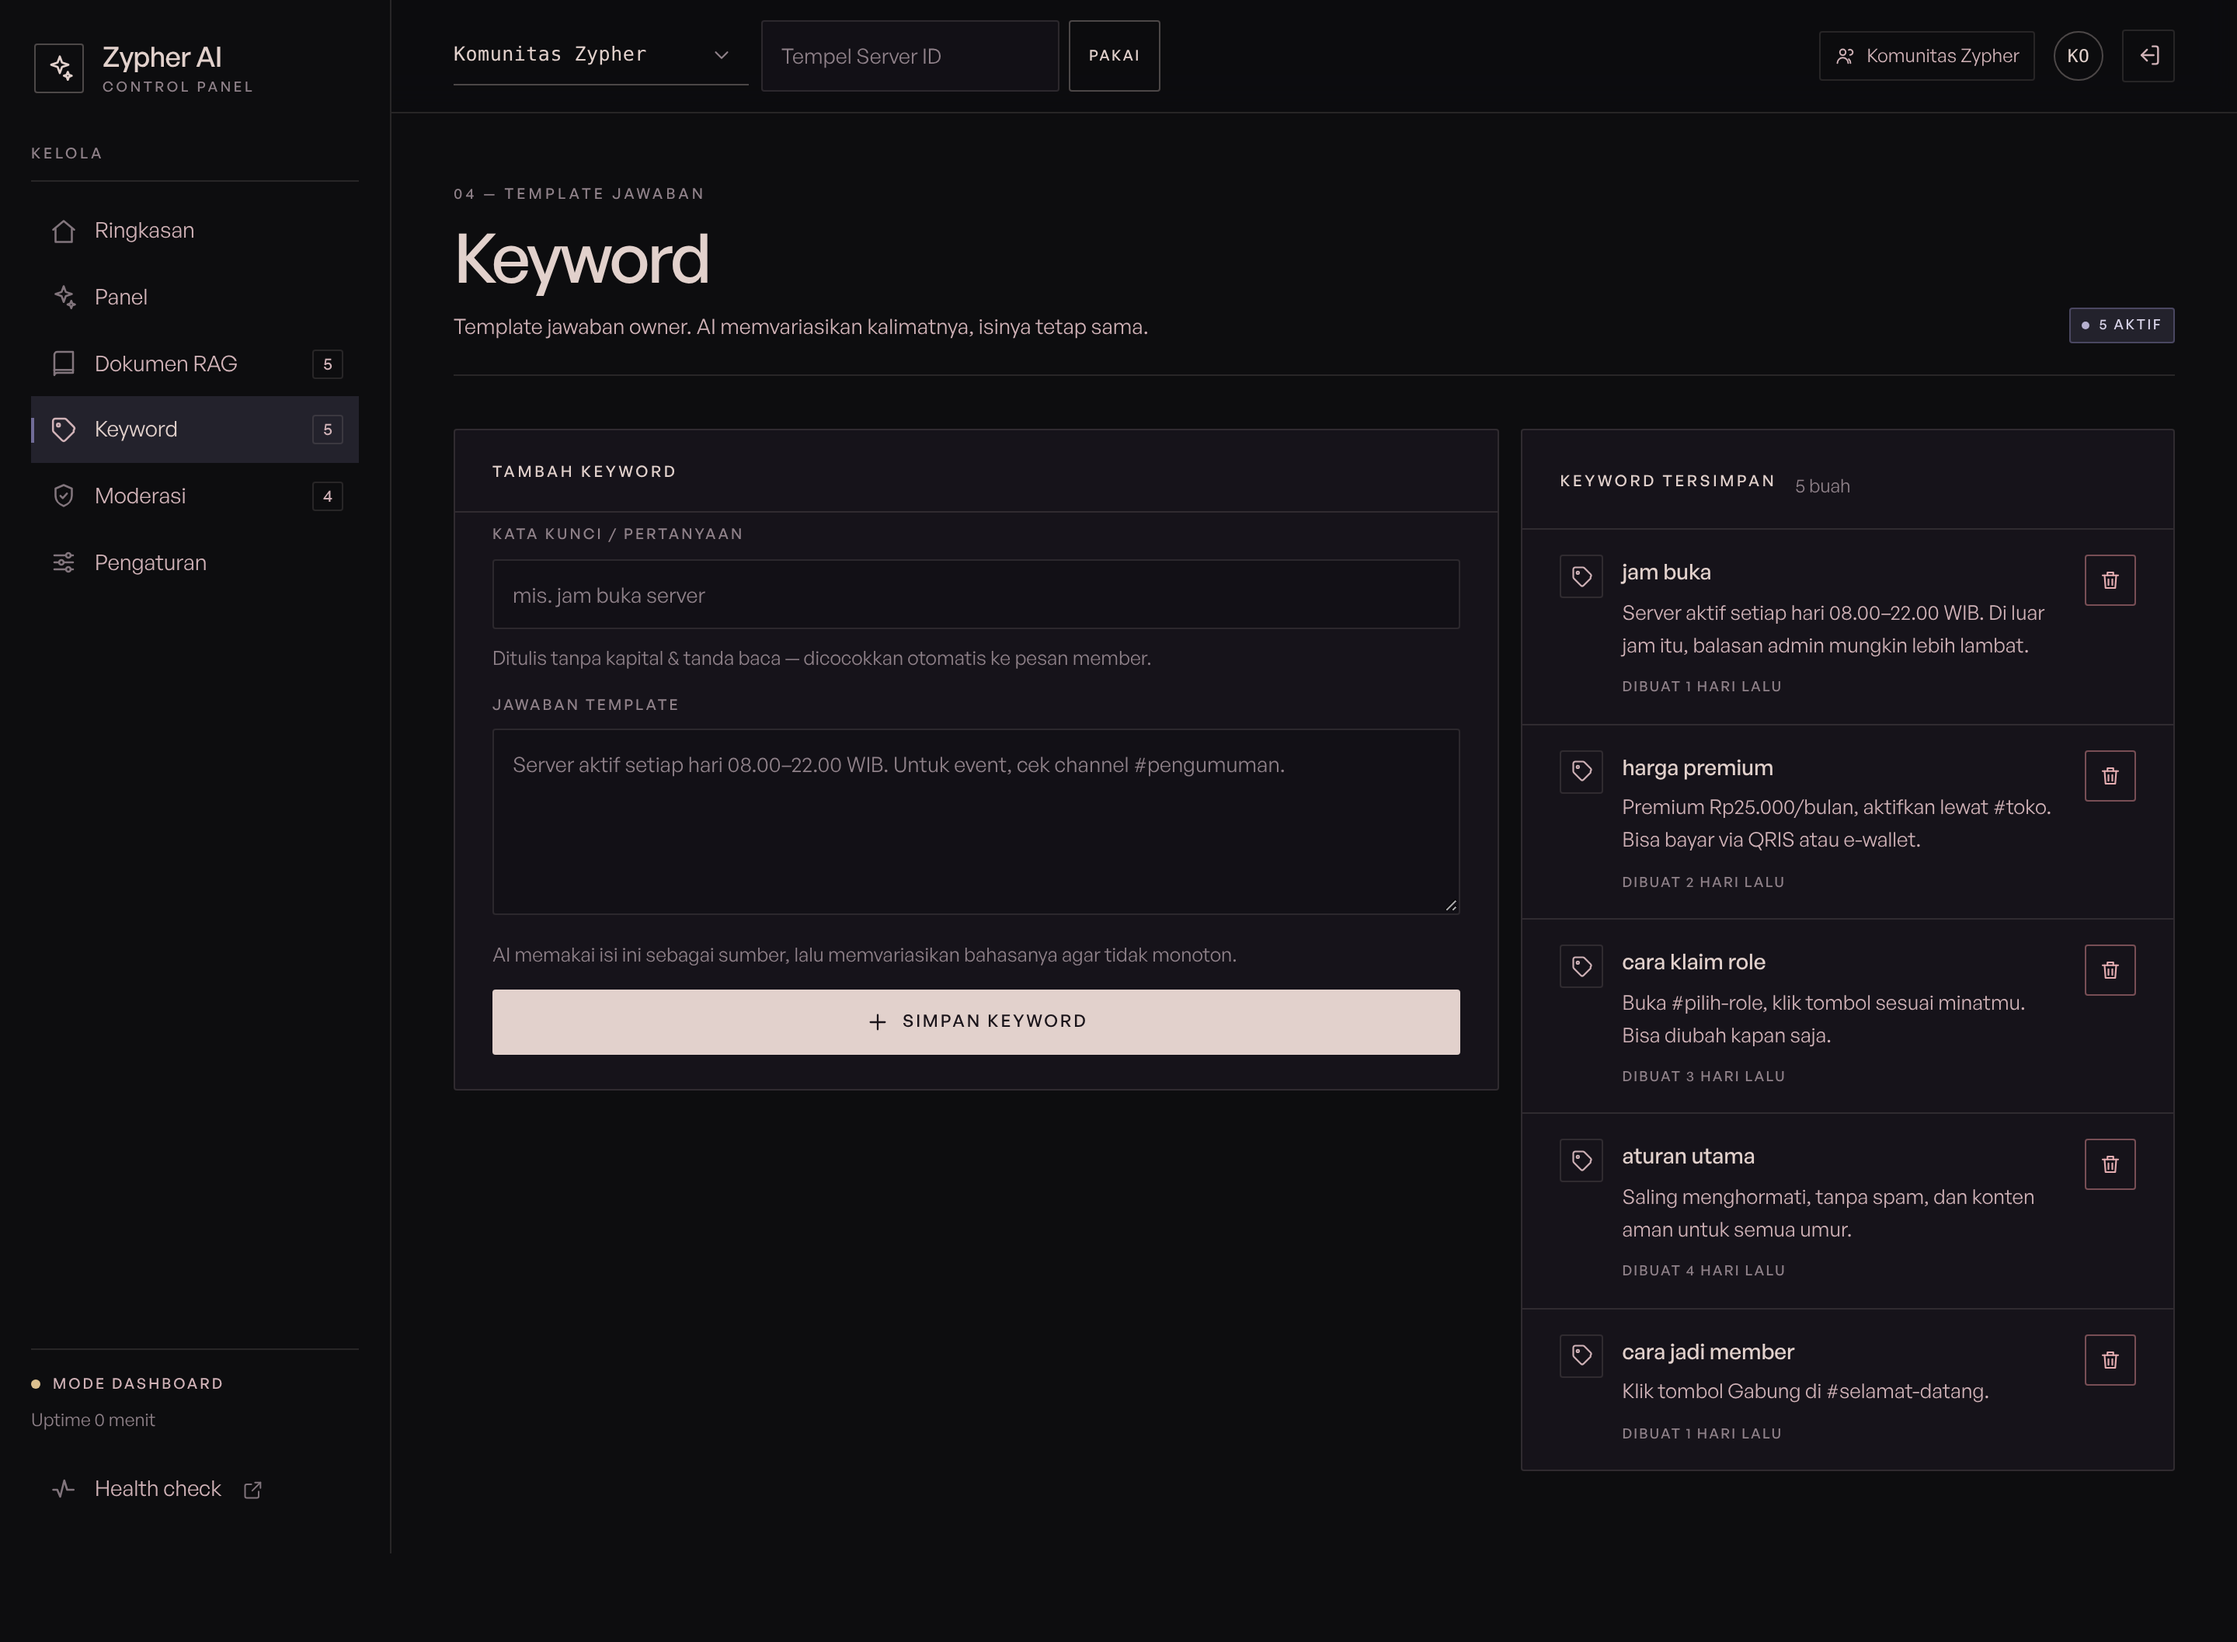
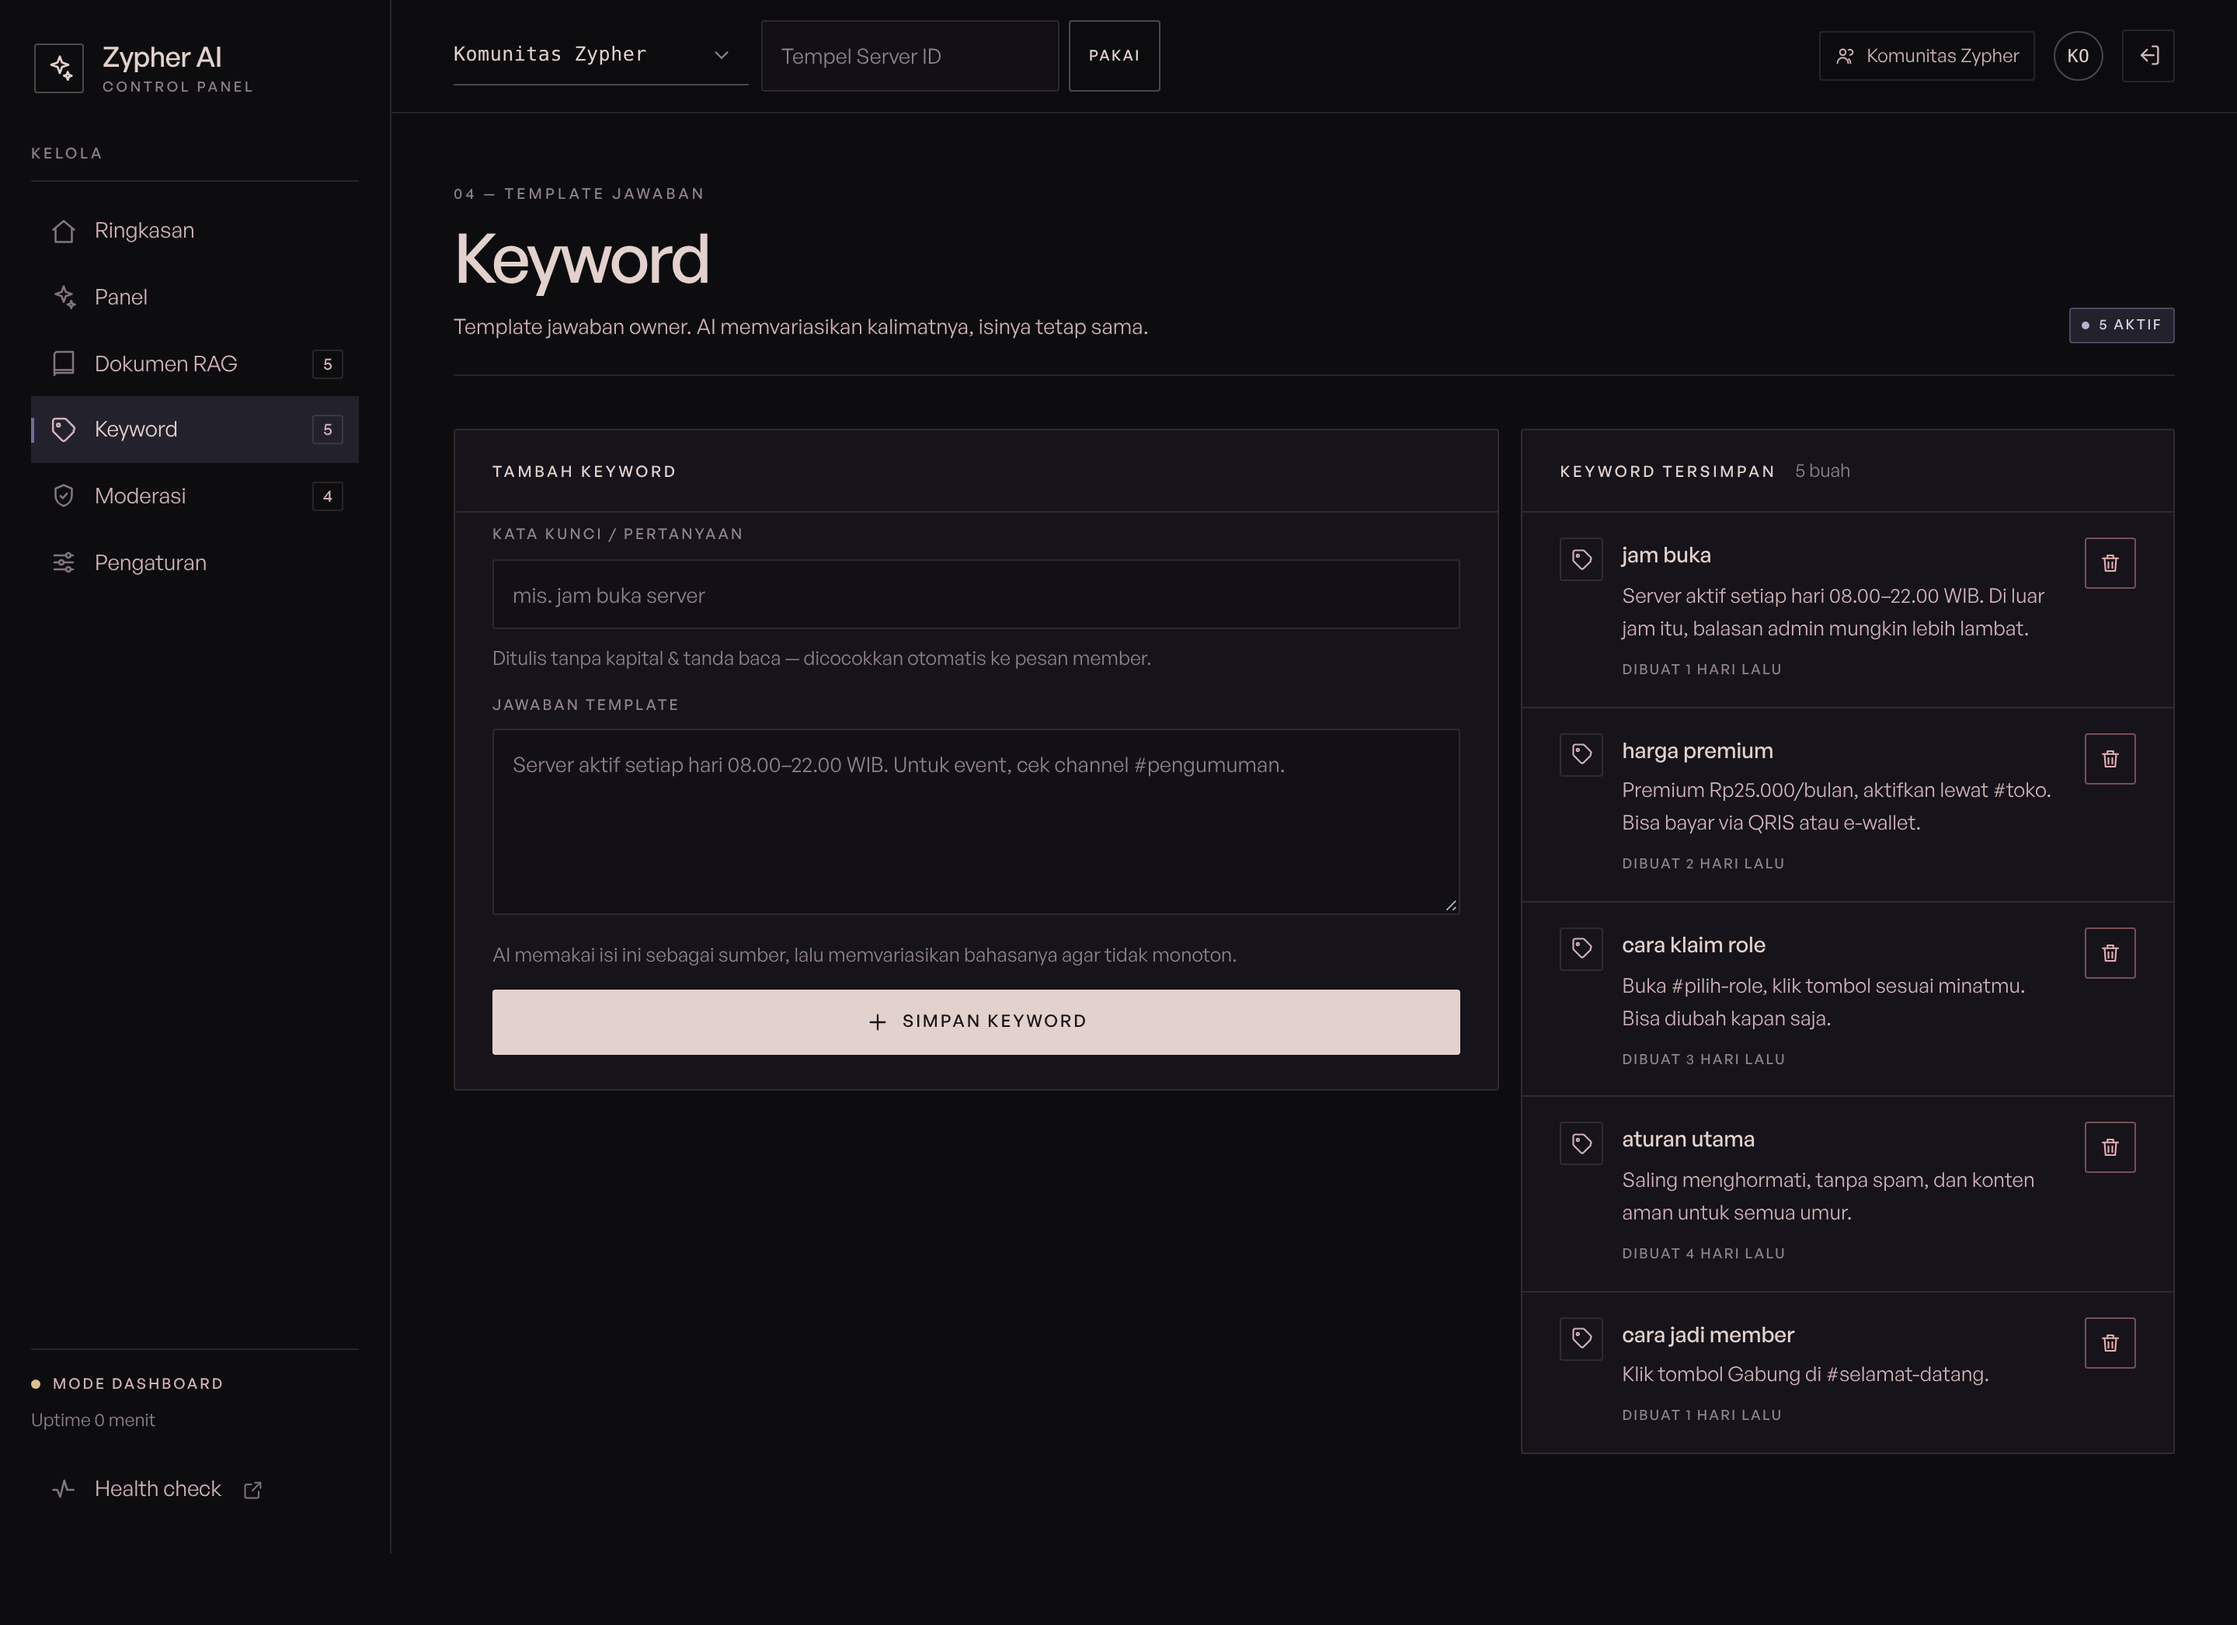
fix(ui): 4 masalah alignment — kolom Pesan, chevron select, badge ganda, judul kartu
Semua diverifikasi dengan mengukur getBoundingClientRect di Chromium, bukan
menebak dari screenshot.

1. Ringkasan — kolom "PESAN" pada tabel Sesi DM
   Header memakai .num (text-align:right) sementara angkanya satu digit, jadi
   angka mengambang jauh di tengah sel sementara judulnya rata kanan ke tepi.
   Diganti kelas .col-count: lebar dipatok 92px + rata kiri.
   Terukur: selisih posisi judul vs angka 0px (sebelumnya puluhan px).

2. Panel — chevron dropdown tidak di ujung garis bawah select
   .select-shell inline-flex dgn <select max-width:260px> di dalam shell yang
   bisa width:100%. Chevron position:absolute right:10px menempel ke tepi
   SHELL (260px+), bukan tepi SELECT.
   Diperbaiki: shell max-width:100%, select width:100%; markup panel tidak lagi
   memaksa shell 100% selebar kartu.
   Terukur: shell == lebar select (190px), chevron 10px dari ujung kanan select.

3. Moderasi — dua badge "NONAKTIF"
   Badge status yang sama dipasang di pageHead.actions DAN di card right.
   Dihapus dari judul halaman; badge tetap di header kartu "Filter kata".
   Terukur: badge status 1 buah (sebelumnya 2).

4. Judul kartu tidak sejajar teks di sampingnya
   .hint global punya margin-top:8px yang ikut berlaku di dalam .card-head,
   membuat "5 dokumen" turun ~4px dari "DOKUMEN TERSIMPAN".
   Diperbaiki: .card-head .hint { margin: 0; line-height: 1.2 }.
   Terukur: beda titik pusat 0px di semua card-head (sebelumnya 4px).

Screenshot: 12 file diperbarui dari build terbaru.
[…]

diff --git a/scripts/smoke.ts b/scripts/smoke.ts
@@ -1274,6 +1274,53 @@ test('endDmSession melaporkan kegagalan kirim transkrip', async () => {
   );
 });
 
+console.log('\nAlignment UI');
+
+test('card-head: teks di samping judul tidak turun (margin .hint direset)', async () => {
+  const { STYLE } = await import('../src/web/ui/theme.js');
+  // .hint global punya margin-top 8px. Di dalam .card-head itu membuat teks
+  // di samping judul kartu turun ~4px dari judulnya.
+  const block = STYLE.slice(STYLE.indexOf('.card-head .hint'), STYLE.indexOf('.card-head .hint') + 220);
+  assert.ok(block.includes('margin: 0'), '.card-head .hint harus margin:0');
+});
+
+test('select-shell: chevron menempel ke ujung <select>, bukan tepi shell', async () => {
+  const { STYLE } = await import('../src/web/ui/theme.js');
+  const shell = STYLE.slice(STYLE.indexOf('.select-shell {'), STYLE.indexOf('.select-shell select'));
+  assert.ok(shell.includes('max-width: 100%'), 'shell dibatasi supaya tidak lebih lebar dari select');
+  const select = STYLE.slice(STYLE.indexOf('.select-shell select {'), STYLE.indexOf('.select-shell select:hover'));
+  assert.ok(select.includes('width: 100%'), 'select mengisi lebar shell');
+});
+
+test('tabel Sesi DM: kolom Pesan punya kelas sendiri, bukan .num rata kanan', async () => {
+  const source = await readFile('src/web/ui/pages.ts', 'utf8');
+  const card = source.slice(source.indexOf('Sesi DM terbaru'), source.indexOf('Sesi DM terbaru') + 700);
+  assert.ok(card.includes('col-count'), 'header Pesan memakai col-count');
+  assert.equal(
+    /<th class="num">Pesan<\/th>/.test(card),
+    false,
+    'header Pesan tidak lagi memakai .num (yang rata kanan dan mengambang)',
+  );
+
+  const { STYLE } = await import('../src/web/ui/theme.js');
+  const rule = STYLE.slice(STYLE.indexOf('.col-count {'), STYLE.indexOf('.col-count {') + 200);
+  assert.ok(rule.includes('text-align: left'), 'kolom angka rata kiri, sejajar judulnya');
+  assert.ok(rule.includes('width: 92px'), 'lebar kolom dipatok supaya angka tidak di tengah sel');
+});
+
+test('Moderasi: badge status hanya muncul sekali', async () => {
+  const source = await readFile('src/web/ui/pages.ts', 'utf8');
+  const start = source.indexOf("title: 'Moderasi'");
+  const section = source.slice(start, start + 4000);
+  // Badge dulu dipasang di pageHead.actions DAN card right -> terbaca 2x.
+  assert.equal(
+    /kicker: '08 — Keamanan'[\s\S]{0,400}?actions: status/.test(source),
+    false,
+    'badge tidak lagi dipasang di judul halaman Moderasi',
+  );
+  assert.ok(section.includes('right: status') || section.includes('right: status,'), 'badge tetap ada di header kartu');
+});
+
 console.log('\nScreenshot dokumentasi');
 test('screenshot: tidak ada file yang membocorkan halaman privasi', async () => {
   const { readdir } = await import('node:fs/promises');

diff --git a/src/web/ui/theme.ts b/src/web/ui/theme.ts
@@ -155,10 +155,14 @@ code {
   background: rgba(13, 13, 15, .94); backdrop-filter: blur(10px);
 }
 .guild-picker { display: flex; align-items: center; gap: 8px; }
-.select-shell { position: relative; display: inline-flex; align-items: center; }
+/* Shell mengikuti lebar <select>, bukan sebaliknya.
+   Dulu shell bisa width:100% sementara select dibatasi max-width:260px,
+   jadi chevron (position:absolute; right:10px) menempel ke tepi shell —
+   jauh di kanan garis bawah select. Sekarang shell menyusut selebar select. */
+.select-shell { position: relative; display: inline-flex; align-items: center; max-width: 100%; }
 .select-shell svg { position: absolute; right: 10px; pointer-events: none; color: var(--text-3); }
 .select-shell select {
-  appearance: none; padding: 8px 32px 8px 0; min-width: 190px; max-width: 260px;
+  appearance: none; padding: 8px 32px 8px 0; min-width: 190px; max-width: 260px; width: 100%;
   background: transparent; border: 0; border-bottom: 1px solid var(--line-strong); border-radius: 0;
   color: var(--text); font-family: var(--font-mono); font-size: 12.5px; letter-spacing: .02em;
 }
@@ -218,7 +222,12 @@ code {
   font-size: 10px; font-weight: 500; letter-spacing: .18em;
   text-transform: uppercase; color: var(--text);
 }
-.card-head .hint { color: var(--text-3); font-size: 12px; letter-spacing: -.005em; }
+.card-head .hint {
+  /* margin-top: 8px global milik .hint membuat teks di samping judul kartu
+     turun ~4px. Di dalam card-head teks harus sebaris rata dengan judul. */
+  color: var(--text-3); font-size: 12px; letter-spacing: -.005em;
+  margin: 0; line-height: 1.2;
+}
 .card-head .right { margin-left: auto; display: flex; align-items: center; gap: 8px; }
 
 .grid { display: grid; gap: 14px; }
@@ -316,6 +325,16 @@ tbody tr:hover { background: rgba(226, 209, 204, .04); }
 }
 .date-short { display: none; }
 .num { text-align: right; font-variant-numeric: tabular-nums; }
+
+/* Kolom angka di tabel (mis. "Pesan" pada Sesi DM).
+   Dulu memakai .num (rata kanan) dengan padding 24px di dua sisi, jadi satu
+   digit angka mengambang jauh dari judul kolomnya. Lebar dipatok supaya angka
+   duduk tepat di bawah judulnya, bukan di tengah sel. */
+.col-count {
+  width: 92px; text-align: left;
+  font-variant-numeric: tabular-nums; white-space: nowrap;
+}
+.col-activity { width: 1%; white-space: nowrap; }
 .row-actions { display: inline-flex; align-items: center; gap: 6px; justify-content: flex-end; }
 
 /* ---------------- badges, chips, buttons ---------------- */

diff --git a/src/web/ui/pages.ts b/src/web/ui/pages.ts
@@ -148,8 +148,8 @@ export function ringkasanPage(data: DashboardData): string {
         </span>
       </div>
     </td>
-    <td class="num">${formatNumber(session.messageCount)}</td>
-    <td><span class="badge">${icon('activity', 13)} ${esc(relativeTime(session.lastActiveAt))}</span></td>
+    <td class="col-count">${formatNumber(session.messageCount)}</td>
+    <td class="col-activity"><span class="badge">${icon('activity', 13)} ${esc(relativeTime(session.lastActiveAt))}</span></td>
   </tr>`,
         )
         .join('')
@@ -160,7 +160,7 @@ export function ringkasanPage(data: DashboardData): string {
     right: `<a class="btn-ghost btn-sm" href="/panel">Kelola panel ${icon('chevron', 13)}</a>`,
     body: roomRows
       ? `<div class="table-wrap"><table>
-  <thead><tr><th>Pemilik</th><th class="num">Pesan</th><th>Aktivitas</th></tr></thead>
+  <thead><tr><th>Pemilik</th><th class="col-count">Pesan</th><th class="col-activity">Aktivitas</th></tr></thead>
   <tbody>${roomRows}</tbody>
 </table></div>`
       : emptyState({
@@ -232,8 +232,8 @@ export function panelPage(options: PanelOptions): string {
   const hasPanel = Boolean(options.messageId);
 
   const channelField = options.channels.length
-    ? `<span class="select-shell" style="width:100%">
-    <select id="panelChannel" style="width:100%">
+    ? `<span class="select-shell" style="display:flex;width:100%">
+    <select id="panelChannel" style="width:100%;max-width:none">
       <option value="">— pilih channel —</option>
       ${options.channels
         .map(
@@ -1041,11 +1041,13 @@ export function moderasiPage(options: ModerasiOptions): string {
         }),
   });
 
+  // Badge status hanya dipakai SEKALI, di header kartu "Filter kata".
+  // Dulu badge yang sama juga ditempel di judul halaman, jadi terbaca dua kali
+  // ("NONAKTIF" di atas dan "NONAKTIF" lagi di kartu) dengan jarak lega.
   const body = `${pageHead({
     kicker: '08 — Keamanan',
     title: 'Moderasi',
     subtitle: 'Saring kata terlarang otomatis tanpa perlu bot moderasi tambahan. Pengaturan disimpan per server.',
-    actions: status,
   })}
 <div class="grid cols-2-even">${settingsCard}${statsCard}</div>
 <div class="mt">${logsCard}</div>
